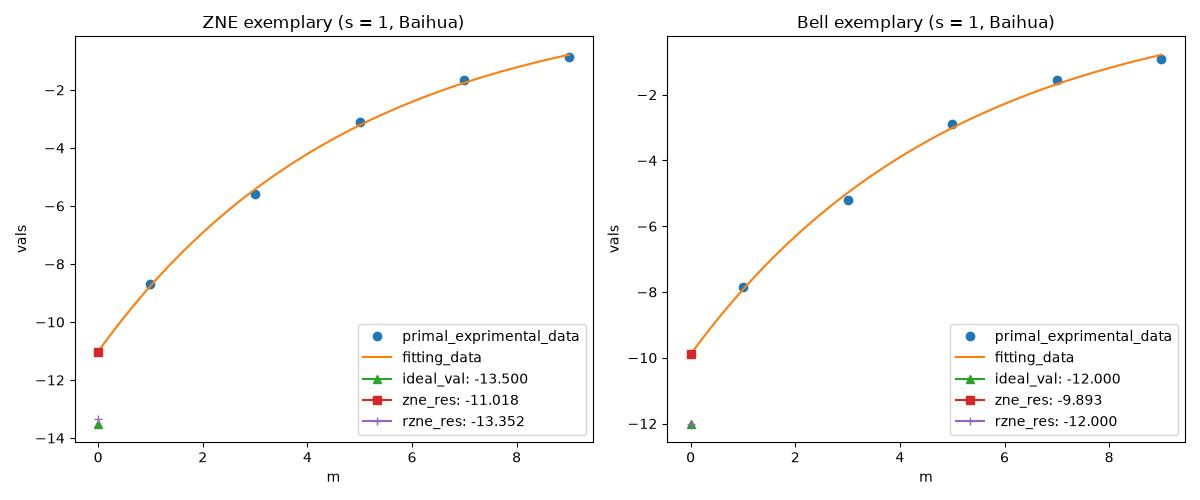
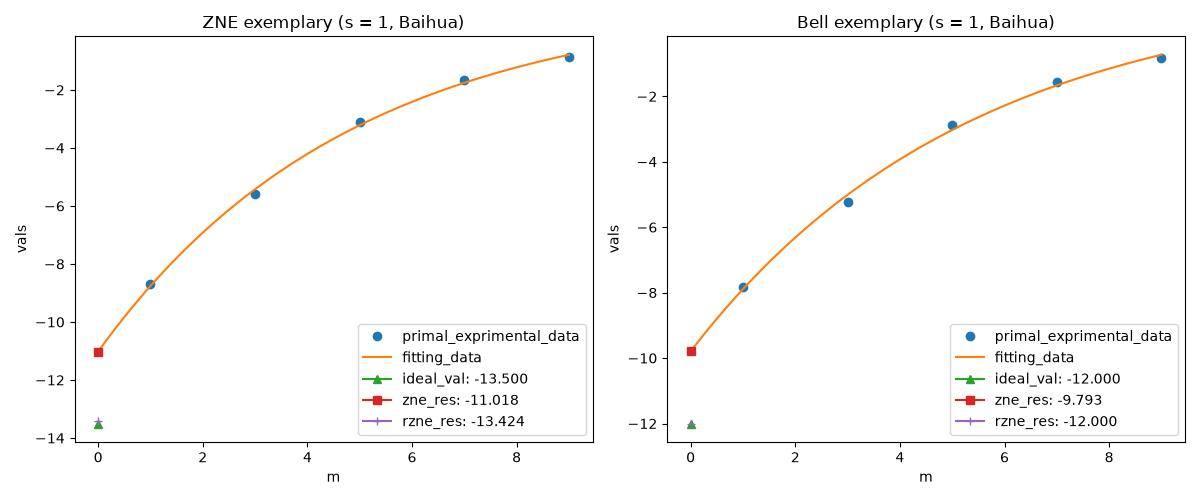
更新变分优化项目：新增 rZNE spectrum 模块与测试、更新 exemplary 脚本与 optimize_branch

diff --git a/theory/physics/contemporary_physics/quant_comp_note/04_project/variational_param_evolution/variational_optimization/variational_optimization_03/src/get_rZNE_spectrum.py b/theory/physics/contemporary_physics/quant_comp_note/04_project/variational_param_evolution/variational_optimization/variational_optimization_03/src/get_rZNE_spectrum.py
@@ -1,0 +1,71 @@
+import asyncio
+
+
+from get_ZNE_val import get_gs_ZNE, get_bell_ZNE
+from get_rZNE_val import get_rZNE_vals
+
+
+IDEAL_BELL_VAL = -12.0
+
+
+async def get_rZNE_spectrum(
+    s_ls,
+    direct_optimizer,
+    slsqp_optimizer,
+    n_list,
+    ideal_bell_val=IDEAL_BELL_VAL,
+    chip="qiskit_aer",
+    chip_options=None,
+):
+
+    # redefine chip_options for each s
+    chip_options_ls = []
+    for s in s_ls:
+        opts = None
+        if chip_options is not None:
+            opts = dict(chip_options)
+            opts["name"] = f"{opts.get('name', 'my_job')}_s={s:.2f}"
+        chip_options_ls.append(opts)
+
+    # get ZNE spectrum
+    bell_zne_records = await asyncio.gather(
+        *(
+            get_bell_ZNE(
+                s_ls[s_idx], n_list, chip=chip, chip_options=chip_options_ls[s_idx]
+            )
+            for s_idx in range(len(s_ls))
+        )
+    )
+    gs_zne_records = await asyncio.gather(
+        *(
+            get_gs_ZNE(
+                s_ls[s_idx],
+                direct_optimizer,
+                slsqp_optimizer,
+                n_list,
+                chip=chip,
+                chip_options=chip_options_ls[s_idx],
+            )
+            for s_idx in range(len(s_ls))
+        )
+    )
+
+    # get rZNE spectrum
+    bell_rzne_records = await asyncio.gather(
+        *(
+            get_rZNE_vals(bell_zne_records[s_idx], ideal_val=ideal_bell_val, r=None)
+            for s_idx in range(len(s_ls))
+        )
+    )
+    gs_rzne_records = await asyncio.gather(
+        *(
+            get_rZNE_vals(
+                gs_zne_records[s_idx],
+                ideal_val=None,
+                r=bell_rzne_records[s_idx]["r"],
+            )
+            for s_idx in range(len(s_ls))
+        )
+    )
+
+    return gs_rzne_records, bell_rzne_records

diff --git a/theory/physics/contemporary_physics/quant_comp_note/04_project/variational_param_evolution/variational_optimization/variational_optimization_03/save_rZNE_spectrum.py b/theory/physics/contemporary_physics/quant_comp_note/04_project/variational_param_evolution/variational_optimization/variational_optimization_03/save_rZNE_spectrum.py
@@ -1,0 +1,66 @@
+import asyncio
+import json
+import sys
+from pathlib import Path
+
+
+import numpy as np
+from qiskit_algorithms.optimizers import DIRECT_L, SLSQP
+
+
+HERE = Path(__file__).resolve().parent
+sys.path.insert(0, str(HERE / "src"))
+TARGET_QUBITS = [126, 127, 128, 129, 142, 141, 140, 139]
+IDEAL_BELL_VAL = -12.0
+SLIST = np.linspace(0, 1, 20)
+NLIST = list(range(5))
+
+from get_rZNE_spectrum import get_rZNE_spectrum
+
+
+def _dump(record, out_path):
+    out_path = Path(out_path)
+    out_path.parent.mkdir(parents=True, exist_ok=True)
+    with open(out_path, "w", encoding="utf-8") as f:
+        json.dump(record, f, indent=2, ensure_ascii=False)
+    print(f"Results saved to {out_path}")
+
+
+async def save_rZNE_spectrum(out_path, chip="qiskit_aer"):
+    direct_optimizer = DIRECT_L(
+        max_evals=500,
+    )
+    slsqp_optimizer = SLSQP(
+        maxiter=1000,
+        ftol=1e-12,
+        disp=False,
+    )
+    chip_options = {
+        "shot_num": 1024 * 50,
+        "correct": False,
+        "name": "Save-rZNE-spectrum",
+        "target_qubits": TARGET_QUBITS,
+    }
+    gs_rzne, bell_rzne = await get_rZNE_spectrum(
+        s_ls=SLIST,
+        direct_optimizer=direct_optimizer,
+        slsqp_optimizer=slsqp_optimizer,
+        n_list=NLIST,
+        ideal_bell_val=IDEAL_BELL_VAL,
+        chip=chip,
+        chip_options=chip_options,
+    )
+    record = {
+        "gs": gs_rzne,
+        "bell": bell_rzne,
+    }
+    _dump(record, out_path)
+
+
+if __name__ == "__main__":
+    asyncio.run(
+        save_rZNE_spectrum(
+            HERE / "data" / "rZNE_spectrum.json",
+            chip="Baihua",
+        )
+    )

diff --git a/theory/physics/contemporary_physics/quant_comp_note/04_project/variational_param_evolution/variational_optimization/variational_optimization_03/save_rZNE_exemplary.py b/theory/physics/contemporary_physics/quant_comp_note/04_project/variational_param_evolution/variational_optimization/variational_optimization_03/save_rZNE_exemplary.py
@@ -1,32 +1,17 @@
+import asyncio
 import json
+import sys
 from pathlib import Path
 
 
-import numpy as np
-from scipy.optimize import curve_fit
+HERE = Path(__file__).resolve().parent
+sys.path.insert(0, str(HERE / "src"))
+
+from get_rZNE_val import get_rZNE_vals
 
 
 IDEAL_BELL_VAL = -12.0
 IDEAL_E0_VAL = -13.49973
-
-
-def zne_fun(m, a, b, c):
-    return a * np.exp(-b * m) + c
-
-
-def get_rZNE_vals(record, ideal_val=None, r=None):
-    m, y = np.array(record["m"]), record["vals"]
-    popt, _ = curve_fit(zne_fun, m, y, p0=[y[0] - y[-1], 0.3, y[-1]])
-    if r is None:
-        r = (ideal_val - popt[2]) / popt[0]
-
-    record = dict(record)
-    record["popt"] = popt.tolist()
-    record["r"] = float(r)
-    record["ideal_val"] = ideal_val
-    record["zne_res"] = zne_fun(0, *popt)
-    record["rzne_res"] = zne_fun(0, popt[0] * r, *popt[1:])
-    return record
 
 
 def save_rZNE_vals(zne_path, bell_path, zne_fitting_path, bell_fitting_path):
@@ -35,9 +20,9 @@ def save_rZNE_vals(zne_path, bell_path, zne_fitting_path, bell_fitting_path):
     with open(bell_path, encoding="utf-8") as f:
         bell = json.load(f)
 
-    bell_record = get_rZNE_vals(bell, ideal_val=IDEAL_BELL_VAL)
+    bell_record = asyncio.run(get_rZNE_vals(bell, ideal_val=IDEAL_BELL_VAL))
     r = bell_record["r"]
-    zne_record = get_rZNE_vals(zne, ideal_val=IDEAL_E0_VAL, r=r)
+    zne_record = asyncio.run(get_rZNE_vals(zne, ideal_val=IDEAL_E0_VAL, r=r))
 
     # save to json
     for record, path in [

diff --git a/theory/physics/contemporary_physics/quant_comp_note/04_project/variational_param_evolution/variational_optimization/variational_optimization_03/src/get_ZNE_val.py b/theory/physics/contemporary_physics/quant_comp_note/04_project/variational_param_evolution/variational_optimization/variational_optimization_03/src/get_ZNE_val.py
@@ -9,7 +9,7 @@ from optimize_branch import optimize_branch
 
 TARGET_QUBITS = [126, 127, 128, 129, 142, 141, 140, 139]
 
-N_LIST = list(range(16))
+N_LIST = list(range(5))
 
 
 async def get_ZNE_val(s, n, θodd, θeven, chip="qiskit_aer", chip_options=None):
@@ -44,10 +44,10 @@ async def get_gs_ZNE(
     initial_state = get_initial_state()
     direct_res = optimize_branch(initial_state, s=s, optimizer=direct_optimizer)
     slsqp_res = optimize_branch(
-        initial_state, t0=direct_res["t"], s=s, optimizer=slsqp_optimizer
+        initial_state, x0=direct_res["x"], s=s, optimizer=slsqp_optimizer
     )
     # get ZNE
-    θodd, θeven = slsqp_res["t"]
+    θodd, θeven = slsqp_res["x"]
     m_ls, op_vals = await get_ZNE_vals(
         s, n_list, θodd, θeven, chip=chip, chip_options=chip_options
     )

diff --git a/theory/physics/contemporary_physics/quant_comp_note/04_project/variational_param_evolution/variational_optimization/variational_optimization_03/src/get_rZNE_val.py b/theory/physics/contemporary_physics/quant_comp_note/04_project/variational_param_evolution/variational_optimization/variational_optimization_03/src/get_rZNE_val.py
@@ -1,0 +1,27 @@
+import asyncio
+
+import numpy as np
+from scipy.optimize import curve_fit
+
+
+def zne_fun(m, a, b, c):
+    return a * np.exp(-b * m) + c
+
+
+def _get_rZNE_vals(record, ideal_val=None, r=None):
+    m, y = np.array(record["m"]), record["vals"]
+    popt, _ = curve_fit(zne_fun, m, y, p0=[y[0] - y[-1], 0.3, y[-1]])
+    if r is None:
+        r = (ideal_val - popt[2]) / popt[0]
+
+    record = dict(record)
+    record["popt"] = popt.tolist()
+    record["r"] = float(r)
+    record["ideal_val"] = ideal_val
+    record["zne_res"] = zne_fun(0, *popt)
+    record["rzne_res"] = zne_fun(0, popt[0] * r, *popt[1:])
+    return record
+
+
+async def get_rZNE_vals(record, ideal_val=None, r=None):
+    return await asyncio.to_thread(_get_rZNE_vals, record, ideal_val, r)

diff --git a/theory/physics/contemporary_physics/quant_comp_note/04_project/variational_param_evolution/variational_optimization/variational_optimization_03/test/test_get_rZNE_spectrum.py b/theory/physics/contemporary_physics/quant_comp_note/04_project/variational_param_evolution/variational_optimization/variational_optimization_03/test/test_get_rZNE_spectrum.py
@@ -1,0 +1,30 @@
+import asyncio
+import sys
+from pathlib import Path
+
+from qiskit_algorithms.optimizers import DIRECT_L, SLSQP
+
+HERE = Path(__file__).resolve().parent
+sys.path.insert(0, str(HERE.parent / "src"))
+
+from get_rZNE_spectrum import get_rZNE_spectrum
+
+
+def main():
+    direct_optimizer = DIRECT_L(max_evals=500)
+    slsqp_optimizer = SLSQP(maxiter=5000, ftol=1e-12, disp=False)
+
+    gs_rzne, bell_rzne = asyncio.run(
+        get_rZNE_spectrum(
+            s_ls=[0.5, 1],
+            direct_optimizer=direct_optimizer,
+            slsqp_optimizer=slsqp_optimizer,
+            n_list=[0, 1, 2],
+        )
+    )
+    print("gs_rzne:", gs_rzne)
+    print("bell_rzne:", bell_rzne)
+
+
+if __name__ == "__main__":
+    main()

diff --git a/theory/physics/contemporary_physics/quant_comp_note/04_project/variational_param_evolution/variational_optimization/variational_optimization_03/src/optimize_branch.py b/theory/physics/contemporary_physics/quant_comp_note/04_project/variational_param_evolution/variational_optimization/variational_optimization_03/src/optimize_branch.py
@@ -16,7 +16,7 @@ def optimize_branch(
     initial_state,
     s=1,
     ϵ=0,
-    t0=None,
+    x0=None,
     optimizer=None,
 ):
     # 默认参数设置
@@ -26,8 +26,8 @@ def optimize_branch(
             ftol=1e-6,
             disp=False,
         )
-    if t0 is None:
-        t0 = np.array([0.5, 0.5])
+    if x0 is None:
+        x0 = np.array([0.5, 0.5])
 
     # 优化正文
     partial_objective = partial(
@@ -39,13 +39,13 @@ def optimize_branch(
 
     result = optimizer.minimize(
         partial_objective,
-        x0=t0,
+        x0=x0,
         bounds=BOUNDS,
     )
 
     record_re = {
         "fun": float(result.fun),
-        "t": result.x.tolist(),
+        "x": result.x.tolist(),
     }
 
     return record_re

diff --git a/theory/physics/contemporary_physics/quant_comp_note/04_project/variational_param_evolution/variational_optimization/variational_optimization_03/test/test_optimize_branch.py b/theory/physics/contemporary_physics/quant_comp_note/04_project/variational_param_evolution/variational_optimization/variational_optimization_03/test/test_optimize_branch.py
@@ -11,10 +11,10 @@ from optimize_branch import optimize_branch
 
 def main():
     direct_optimizer = DIRECT_L(
-        max_evals=500,
+        max_evals=1000,
     )
     slsqp_optimizer = SLSQP(
-        maxiter=1000,
+        maxiter=5000,
         ftol=1e-12,
         disp=False,
     )
@@ -22,7 +22,7 @@ def main():
     initial_state = get_initial_state()
     direct_res = optimize_branch(initial_state, s=1, optimizer=direct_optimizer)
     slsqp_res = optimize_branch(
-        initial_state, t0=direct_res["t"], s=1, optimizer=slsqp_optimizer
+        initial_state, x0=direct_res["x"], s=1, optimizer=slsqp_optimizer
     )
     print(slsqp_res)
 

diff --git a/theory/physics/contemporary_physics/quant_comp_note/04_project/variational_param_evolution/variational_optimization/variational_optimization_03/plot_exemplary.py b/theory/physics/contemporary_physics/quant_comp_note/04_project/variational_param_evolution/variational_optimization/variational_optimization_03/plot_exemplary.py
@@ -1,12 +1,16 @@
 from pathlib import Path
 import json
+import sys
 
 
 import matplotlib.pyplot as plt
 import numpy as np
 
 
-from save_rZNE_exemplary import zne_fun
+HERE = Path(__file__).resolve().parent
+sys.path.insert(0, str(HERE / "src"))
+
+from get_rZNE_val import zne_fun
 
 
 def plot_exemplary(zne_path, bell_path, fig_path):

diff --git a/theory/physics/contemporary_physics/quant_comp_note/04_project/variational_param_evolution/variational_optimization/variational_optimization_03/save_ZNE_exemplary.py b/theory/physics/contemporary_physics/quant_comp_note/04_project/variational_param_evolution/variational_optimization/variational_optimization_03/save_ZNE_exemplary.py
@@ -2,7 +2,6 @@ import sys
 from pathlib import Path
 import json
 import asyncio
-from qiskit.quantum_info.operators.channel import chi
 from qiskit_algorithms.optimizers import DIRECT_L, SLSQP
 
 
